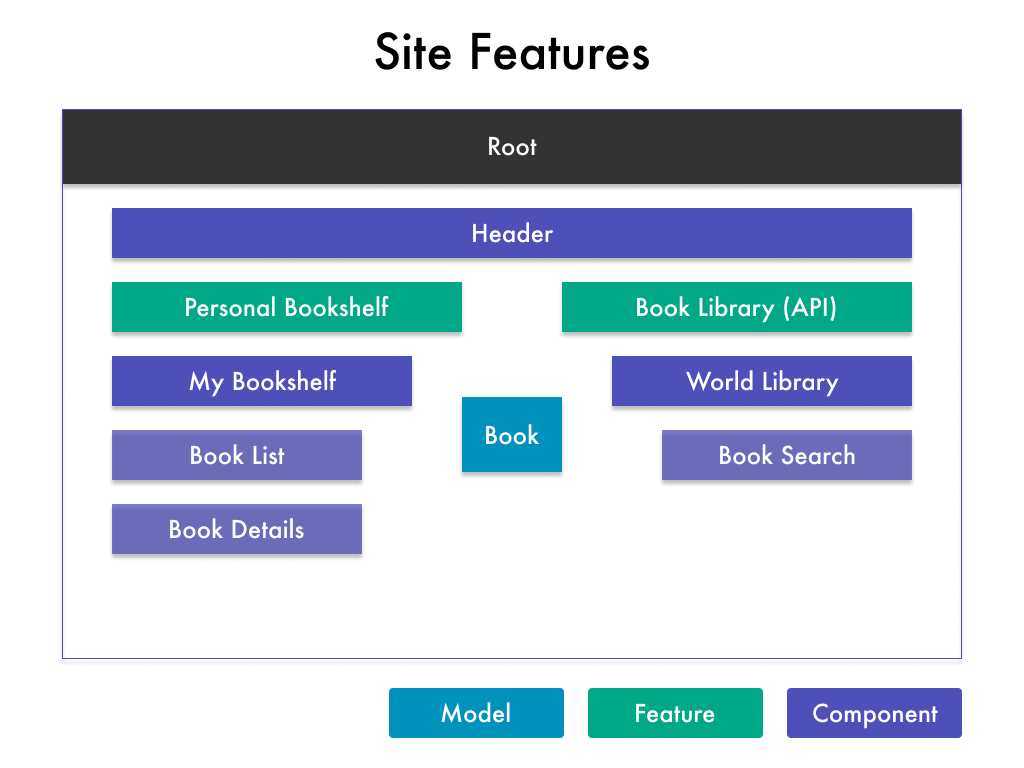
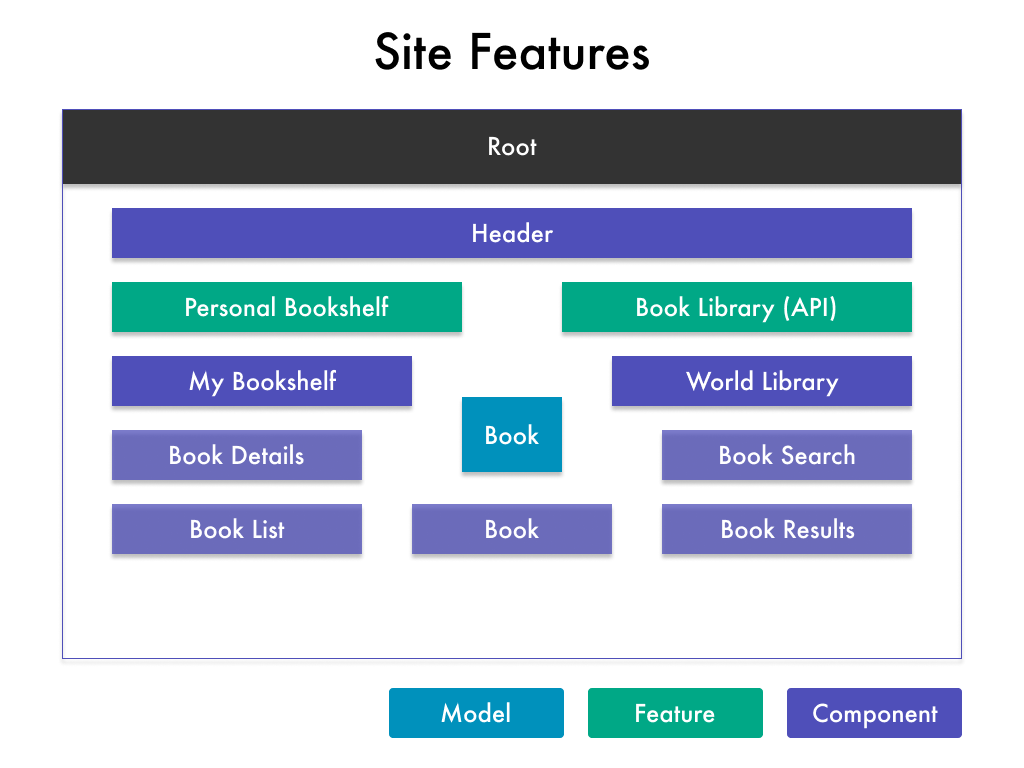
ADD: More Steps
- Design Files/Images
- Updated Component Structure
- Basic Markup Layout

Changed region(s): [[0.375, 0.6562, 0.9062, 0.75], [0.1562, 0.6562, 0.3125, 0.7188], [0.1562, 0.5625, 0.2812, 0.625]]

diff --git a/Class_4/C4-Notes.md b/Class_4/C4-Notes.md
@@ -10,6 +10,14 @@
 
 ![Site Features](./SiteFeatures.png)
 
+**What is the Design/UI flow?**
+
+![AuthDesign](./AuthDesign.png)
+
+![BookshelfDesign](./BookshelfDesign.png)
+
+![LibraryDesign](./LibraryDesign.png)
+
 ### Starting a New Project
 
 ```zsh
@@ -44,7 +52,18 @@
 
     ng g c bookshelf/book-details --skip-tests=true
 
+    ng g c bookshelf/shared/book --skip-test=true
+
     ng g c library/book-search --skip-tests=true
+
+    ng g c library/book-results --skip-tests=true
 ```
 
 - Make sure they are all uploaded in app.module.ts
+
+### Displaying Your Components
+
+- Add the bookshelf component and library component to your main app file inside of the column you previously created.
+- Inside the bookshelf component, add a row and 2 columns with the book-list & book-details components.
+- Inside the library component, add a row and 2 columns with the book-search & book-results components.
+- In the book-list components html file, add the 3 book components.

diff --git a/README.md b/README.md
@@ -63,3 +63,9 @@ Classes: 3,7,11,15,19
 
 **Will**
 Classes: 4,8,12,16,20
+
+---
+
+#### Other Notes
+
+- If you have a lot of extra time during class after teaching your section. . . Focus on styling the application to our design.
